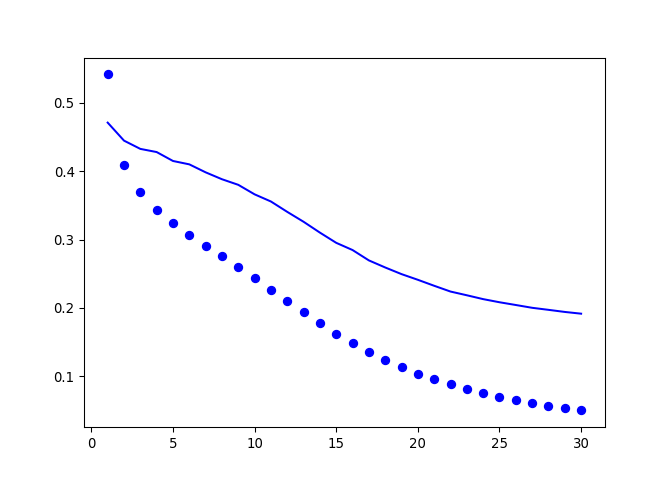
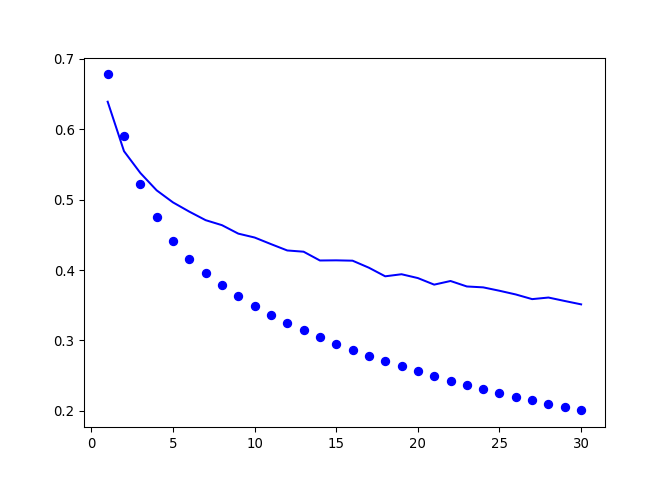
updated the report

diff --git a/reports/0001-dense-model.md b/reports/0001-dense-model.md
@@ -29,6 +29,7 @@ from keras import layers
 from keras import losses
 from keras import metrics
 from keras import optimizers
+from keras.layers import Dense, Dropout
 ```
 
 Load the encoded data
@@ -81,8 +82,6 @@ Fully connected model with integer encoded data
 -----------------------------------------------
 
 ``` python
-from keras.layers import Dense, Dropout
-
 model_first = models.Sequential()
 model_first.add(Dense(3, activation = 'relu', input_dim = 2500))
 model_first.add(Dense(1, activation='sigmoid'))
@@ -164,7 +163,7 @@ model_first.compile(optimizer = 'sgd',
                     
 history = model_first.fit(x = x_train_integer, 
                           y = y_train, 
-                          epochs = 20, 
+                          epochs = 7, 
                           batch_size = 16,
                           verbose = 0)
 
@@ -174,13 +173,13 @@ results = model_first.evaluate(x_test_integer, y_test)
 
     ## 
     ##  32/193 [===>..........................] - ETA: 0s
-    ## 193/193 [==============================] - 0s 581us/step
+    ## 193/193 [==============================] - 0s 840us/step
 
 ``` python
 print(results)
 ```
 
-    ## [0.31557006678433, 0.9378238341968912]
+    ## [0.38564500382527167, 0.917098445595855]
 
 Fully connected model with One hot encoded data
 -----------------------------------------------
@@ -269,7 +268,7 @@ model_first.compile(optimizer = 'sgd',
                     
 history_onehot = model_first.fit(x = x_train_onehot, 
                           y = y_train, 
-                          epochs = 30, 
+                          epochs = 4, 
                           batch_size = 32,
                           verbose = 0)
                           
@@ -277,12 +276,12 @@ results = model_first.evaluate(x_test_onehot, y_test)
 ```
 
     ## 
-    ##  32/193 [===>..........................] - ETA: 0s
-    ## 192/193 [============================>.] - ETA: 0s
-    ## 193/193 [==============================] - 0s 961us/step
+    ##  32/193 [===>..........................] - ETA: 1s
+    ## 160/193 [=======================>......] - ETA: 0s
+    ## 193/193 [==============================] - 0s 2ms/step
 
 ``` python
 print(results)                  
 ```
 
-    ## [0.1403142991017338, 0.9585492227979274]
+    ## [0.3909824167817368, 0.917098445595855]
